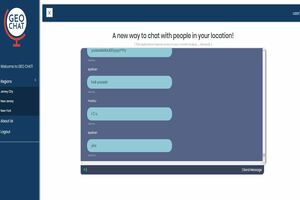
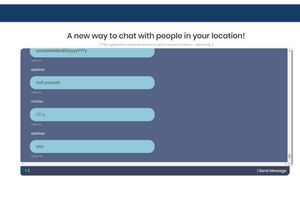
Update squished images

diff --git a/index.html b/index.html
@@ -287,7 +287,7 @@
                 <div class="span3">
                   <div class="thumbnail">
                     <div class="image-wrapp">
-                      <img src="assets/img/portfolio/hamazon_static.JPG" alt="Portfolio name" title="" />
+                      <img src="assets/img/portfolio/LIRI_demo300x200.gif" alt="Portfolio name" title="" />
                       <article class="da-animate da-slideFromRight" style="display: block;">
                         <h5><strong>LIRI CLI</strong></h5>
                         <a href="https://github.com/ma662/LIRI-Bot"><i class="icon-rounded icon-48 icon-link"></i></a>
